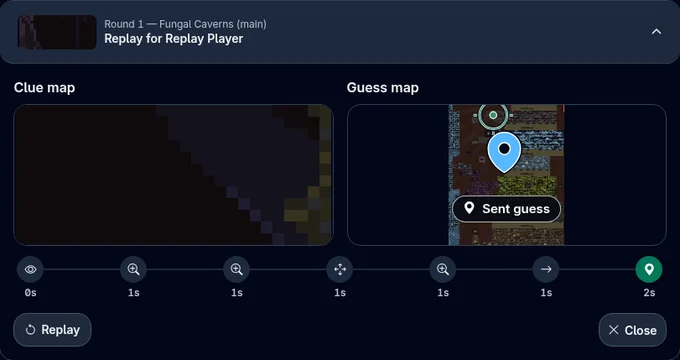
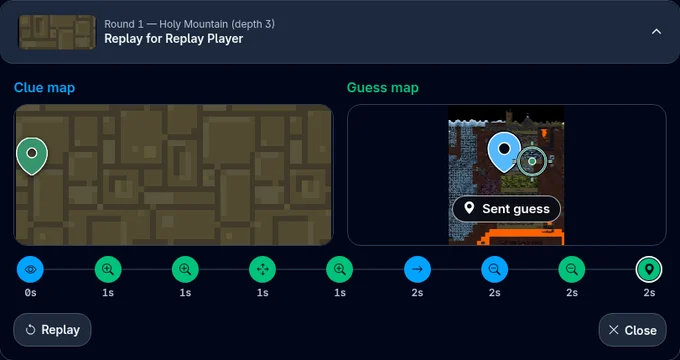
Distinguish clue and guess map actions on the replay timeline

diff --git a/src/guessr/clue-replay-view.ts b/src/guessr/clue-replay-view.ts
@@ -39,6 +39,11 @@ const actions = {
   automatic: ['stopwatch', 'Automatic guess'],
 } as const;
 
+const boardNames = { clue: 'Clue map', guess: 'Guess map' } as const;
+function stepBoard(step: PlaybackStep): keyof typeof boardNames {
+  return 'camera' in step ? 'clue' : 'guess';
+}
+
 function glyph(icon: string): HTMLElement {
   const el = document.createElement('i');
   el.className = 'bi bi-' + icon;
@@ -195,15 +200,15 @@ export function openClueReplay(
   badge.className = 'replay-action-badge';
   badge.setAttribute('aria-hidden', 'true');
   const boards = document.createElement('div'); boards.className = 'replay-boards';
-  function pane(title: string, kind: string, surface: HTMLElement) {
+  function pane(kind: keyof typeof boardNames, surface: HTMLElement) {
     const figure = document.createElement('figure'); figure.className = 'replay-pane'; figure.dataset.board = kind;
-    figure.append(bindText(document.createElement('figcaption'), title), surface); boards.append(figure);
+    figure.append(bindText(document.createElement('figcaption'), boardNames[kind]), surface); boards.append(figure);
     return figure;
   }
   stage.append(clue, badge);
-  pane('Clue map', 'clue', stage);
+  pane('clue', stage);
   const mapStage = document.createElement('div'); mapStage.className = 'replay-map-stage border rounded-9 overflow-hidden';
-  const guessPane = pane('Guess map', 'guess', mapStage);
+  const guessPane = pane('guess', mapStage);
   const mapNote = bindText(document.createElement('span'), 'No guess-map movement was recorded.');
   mapNote.className = 'replay-map-note'; mapStage.append(mapNote);
   const switches = document.createElement('div'); switches.className = 'replay-board-switch';
@@ -214,8 +219,8 @@ export function openClueReplay(
     for (const button of switches.querySelectorAll('button'))
       button.setAttribute('aria-pressed', String(button.dataset.view === selection));
   }
-  for (const [view, text] of [['follow','Follow actions'],['clue','Clue map'],['guess','Guess map']] as const) {
-    const button = control(text); button.dataset.view = view;
+  for (const view of ['follow', 'clue', 'guess'] as const) {
+    const button = control(view === 'follow' ? 'Follow actions' : boardNames[view]); button.dataset.view = view;
     button.onclick = () => { selection = view; selectBoard(); };
     switches.append(button);
   }
@@ -265,8 +270,12 @@ export function openClueReplay(
     new Intl.NumberFormat(guessrLocale(), { style: 'unit', unit: 'second', unitDisplay: 'narrow' }).format(sec);
   const label = (index: number) =>
     index === 0 && steps[index].action === 'view' ? 'Started view' : actions[steps[index].action][1];
-  const stepTitle = (index: number) => 'map' in steps[index] && !['map-view','map-pan'].includes(steps[index].action)
-    ? tr('Guess map') + ' — ' + tr(label(index)) : tr(label(index));
+  const stepTitle = (index: number) => {
+    const step = steps[index];
+    const action = tr(label(index));
+    if (step.action === 'map-view' || step.action === 'map-pan') return action;
+    return tr(boardNames[stepBoard(step)]) + ' — ' + action;
+  };
   let thumbnail: ClueViewport | undefined;
   let cached: Awaited<ReturnType<ReplayLoader>> | undefined;
   function setPlayback(state: typeof playback) {
@@ -355,6 +364,7 @@ export function openClueReplay(
         const next = strip.children[i - start] ?? null;
         const entry = document.createElement('li');
         entry.className = 'stepper-item';
+        entry.dataset.board = stepBoard(step);
         entry.append(node);
         strip.insertBefore(entry, next);
         nodes.set(i, node);
@@ -390,7 +400,7 @@ export function openClueReplay(
       const clueIndex = 'camera' in step ? i : priorCamera[i];
       const mapIndex = 'map' in step ? i : priorMap[i];
       const guessIndex = 'point' in step ? i : priorGuess[i];
-      actionBoard = 'camera' in step ? 'clue' : 'guess';
+      actionBoard = stepBoard(step);
       selectBoard();
       const activeStage = actionBoard === 'clue' ? stage : mapStage;
       activeStage.append(badge);

diff --git a/tests/guessr-clue-replay-view.test.ts b/tests/guessr-clue-replay-view.test.ts
@@ -95,7 +95,8 @@ it('keeps names plain, frames the pin on hover and opens the requested replay ab
   expect(read).toHaveBeenCalledExactlyOnceWith(1, '200', expect.any(AbortSignal));
   expect(document.querySelector('dialog, input[type="range"]')).toBeNull();
   const steps = document.querySelectorAll<HTMLButtonElement>('.replay-step');
-  expect([...steps].map(step => step.title)).toEqual(['Started view', 'Travel east', 'Sent guess', 'Updated guess']);
+  expect([...steps].map(step => step.title)).toEqual(['Clue map — Started view', 'Clue map — Travel east', 'Guess map — Sent guess', 'Guess map — Updated guess']);
+  expect([...steps].map(step => step.parentElement?.dataset.board)).toEqual(['clue', 'clue', 'guess', 'guess']);
   expect(steps[3].textContent).toContain('23');
   steps[1].dispatchEvent(Object.assign(new Event('pointermove'), { pointerType: 'mouse', movementX: 1 }));
   await Promise.resolve();
@@ -130,6 +131,30 @@ it('keeps names plain, frames the pin on hover and opens the requested replay ab
   close();
 });
 
+it('attributes identical zoom icons and an automatic guess to their maps on the shared timeline', async () => {
+  const data: ClueReplay = {
+    clue: replay.clue,
+    steps: [
+      { action: 'zoom-out', second: 4, camera: { dx: 0, dy: 0, level: 1 } },
+      { action: 'automatic', second: 5, point: round.answer },
+    ],
+    mapSteps: [{ action: 'map-zoom-out', second: 4, before: 1, map: { x: 8000000, y: 8000000, w: 32768, h: 32768 } }],
+  };
+  const close = openClueReplay(player.id, player.name, { number: 1, answer: round.answer, location: 'Mines' },
+    async () => data, { mount: document.body, config });
+  try {
+    await vi.waitFor(() => expect(document.querySelectorAll('.replay-step')).toHaveLength(3));
+    const steps = [...document.querySelectorAll<HTMLButtonElement>('.replay-step')];
+    expect(steps.map(step => step.parentElement?.dataset.board)).toEqual(['clue', 'guess', 'guess']);
+    expect(steps.slice(0, 2).every(step => step.querySelector('.bi-zoom-out'))).toBe(true);
+    expect(steps.map(step => step.title)).toEqual(['Clue map — Zoom out', 'Guess map — Zoom out', 'Guess map — Automatic guess']);
+    for (const step of steps) expect(step.getAttribute('aria-label')).toContain(step.title);
+    steps[1].click();
+    expect(steps[1].getAttribute('aria-current')).toBe('step');
+    expect(document.querySelector('.replay-boards')?.getAttribute('data-visible')).toBe('guess');
+  } finally { close(); }
+});
+
 it('restores both maps when seeking across a pin and a pan, without another replay read', async () => {
   const initial = { x:8000000, y:8000000, w:32768, h:32768 }, pan = { ...initial, x:8500000 };
   const read = vi.fn(async () => ({ ...replay, mapSteps:[
@@ -140,10 +165,10 @@ it('restores both maps when seeking across a pin and a pan, without another repl
     document.querySelector<HTMLButtonElement>('.clue-replay-open')!.click();
     const panel = document.querySelector('.score-replay-disclosure')!;
     await vi.waitFor(() => expect(panel.querySelectorAll('.replay-step')).toHaveLength(5));
-    panel.querySelector<HTMLButtonElement>('[title="Sent guess"]')!.click();
+    panel.querySelector<HTMLButtonElement>('[title="Guess map — Sent guess"]')!.click();
     await vi.waitFor(() => expect(seen.players).toHaveBeenCalled());
     expect(seen.pose.mock.lastCall?.[0]).toEqual(pan);
-    panel.querySelector<HTMLButtonElement>('[title="Started view"]')!.click();
+    panel.querySelector<HTMLButtonElement>('[title="Clue map — Started view"]')!.click();
     await vi.waitFor(() => expect(seen.pose.mock.lastCall?.[0]).toEqual(initial));
     expect(seen.markers).toHaveBeenLastCalledWith(null);
     expect(read).toHaveBeenCalledOnce();

diff --git a/src/guessr/stream.css b/src/guessr/stream.css
@@ -166,9 +166,11 @@
 .replay-pan-layer, .replay-pin-layer { position: absolute; inset: 0; }
 .replay-boards { display: grid; grid-template-columns: repeat(2, minmax(0, 1fr)); gap: var(--game-gutter); }
 .replay-boards.single-board { grid-template-columns: minmax(0, 1fr); }
+.replay-content :is([data-board="clue"], [data-view="clue"]) { --replay-map-color: var(--bs-blue-400); }
+.replay-content :is([data-board="guess"], [data-view="guess"]) { --replay-map-color: var(--bs-green-400); }
 .replay-pane { min-inline-size: 0; margin: 0; display: grid; gap: .5rem; }
 .replay-pane[hidden], .replay-map-stage > [hidden] { display: none; }
-.replay-pane figcaption { font-weight: 600; }
+.replay-pane figcaption { color: var(--replay-map-color); font-weight: 600; }
 .replay-map-stage { container-type: size; display: grid; place-items: center; }
 .replay-map-stage .replay-guess-map {
   --map-replay-aspect: 2.25;
@@ -187,7 +189,8 @@
   .replay-boards[data-visible="clue"] > [data-board="guess"], .replay-boards[data-visible="guess"] > [data-board="clue"] { display: none; }
   .replay-board-switch:not([hidden]) { display: grid; grid-template-columns: repeat(3,minmax(0,1fr)); gap: .375rem; }
   #guess-app .replay-board-switch > .btn { min-inline-size: 0; padding: .375rem; white-space: normal; line-height: 1.2; }
-  #guess-app .replay-board-switch > .btn[aria-pressed="true"] { color: var(--bg); background: var(--accent-fg); border-color: var(--accent-fg); }
+  .replay-board-switch > .btn > span { color: var(--replay-map-color, inherit); }
+  #guess-app .replay-board-switch > .btn[aria-pressed="true"] { background: var(--surface-1); border-color: var(--text-muted); box-shadow: inset 0 0 0 1px var(--text-muted); }
 }
 .replay-pan-layer, .replay-pin-layer { pointer-events: none; transform-origin: 0 0; }
 .replay-pin-layer > .replay-pan-marker { left: 0; top: 0; }
@@ -210,13 +213,17 @@
 .replay-timeline { --replay-step-row: 3.5rem; position: relative; inline-size: 100%; min-inline-size: 0; max-block-size: 14rem; overflow: auto; }
 .replay-timeline .stepper { display: grid; grid-auto-flow: row; grid-auto-rows: var(--replay-step-row); align-content: start; row-gap: 0;
   inline-size: 100%; margin: 0; --bs-stepper-size: 2rem; --bs-stepper-text-gap: .25rem; }
-.replay-timeline .stepper-item::before { content: ""; grid-area: 1 / 1; }
+.replay-timeline .stepper-item::before { content: ""; grid-area: 1 / 1; background-color: var(--replay-map-color); }
+.replay-timeline .stepper-item.active::before { box-shadow: inset 0 0 0 2px var(--text), inset 0 0 0 3px var(--bg); }
 .replay-timeline .replay-row-end::after { display: none; }
 #guess-app .replay-step { grid-area: 1 / 1 / span 2; z-index: 2; display: grid; grid-template-rows: var(--bs-stepper-size) auto;
   justify-items: center; align-items: center; gap: var(--bs-stepper-text-gap); inline-size: 100%; min-inline-size: 0; min-block-size: 44px;
   margin: 0; padding: 0; border: 0; border-radius: var(--radius-control); background: transparent; color: var(--text); cursor: pointer; }
-.replay-step-icon { display: inline-flex; align-items: center; justify-content: center; line-height: 1; }
-.replay-step[aria-current="step"] .replay-step-icon { color: var(--bs-stepper-active-color); }
+.replay-step-icon { display: inline-flex; align-items: center; justify-content: center; line-height: 1; color: var(--bg); }
+@media (forced-colors: active) {
+  .replay-timeline .stepper-item::before { border: 1px solid ButtonText; }
+  .replay-timeline .stepper-item.active::before { outline: 2px solid Highlight; outline-offset: -3px; }
+}
 @media (pointer: coarse) {
   #guess-app .score-with-replay > .clue-replay-open { inline-size: 2.75rem; block-size: 2.75rem; }
 }

diff --git a/tests/guessr-changelog.test.ts b/tests/guessr-changelog.test.ts
@@ -144,8 +144,9 @@ it.each([true, false])('uses the motion preference (%s) and lets the reader stop
   const controller = create(); controller.setSafe(true); await flush();
   const image = dialog()!.querySelector<HTMLImageElement>('.guessr-release-preview img')!;
   const toggle = dialog()!.querySelector<HTMLButtonElement>('.guessr-release-preview button')!;
-  expect(image.src.endsWith(normal ? '.gif' : '.webp')).toBe(true);
+  const imagePath = () => new URL(image.src).pathname;
+  expect(imagePath().endsWith(normal ? '.gif' : '.webp')).toBe(true);
   expect(toggle.textContent).toBe(normal ? 'Stop animation' : 'Play animation');
-  toggle.click(); expect(image.src.endsWith(normal ? '.webp' : '.gif')).toBe(true);
-  toggle.click(); expect(image.src.endsWith(normal ? '.gif' : '.webp')).toBe(true);
+  toggle.click(); expect(imagePath().endsWith(normal ? '.webp' : '.gif')).toBe(true);
+  toggle.click(); expect(imagePath().endsWith(normal ? '.gif' : '.webp')).toBe(true);
 });

diff --git a/src/guessr/changelog.ts b/src/guessr/changelog.ts
@@ -100,7 +100,7 @@ function replayPreview() {
   let playing = false;
   const show = (animate: boolean) => {
     playing = animate;
-    image.src = '/guessr/updates/two-map-replays-2026-11-27.' + (playing ? 'gif' : 'webp');
+    image.src = `/guessr/updates/two-map-replays-2026-11-27.${playing ? 'gif' : 'webp'}?v=map-colors`;
     bindText(toggle, playing ? 'Stop animation' : 'Play animation');
   };
   show(window.matchMedia?.('(prefers-reduced-motion: no-preference)').matches === true);
